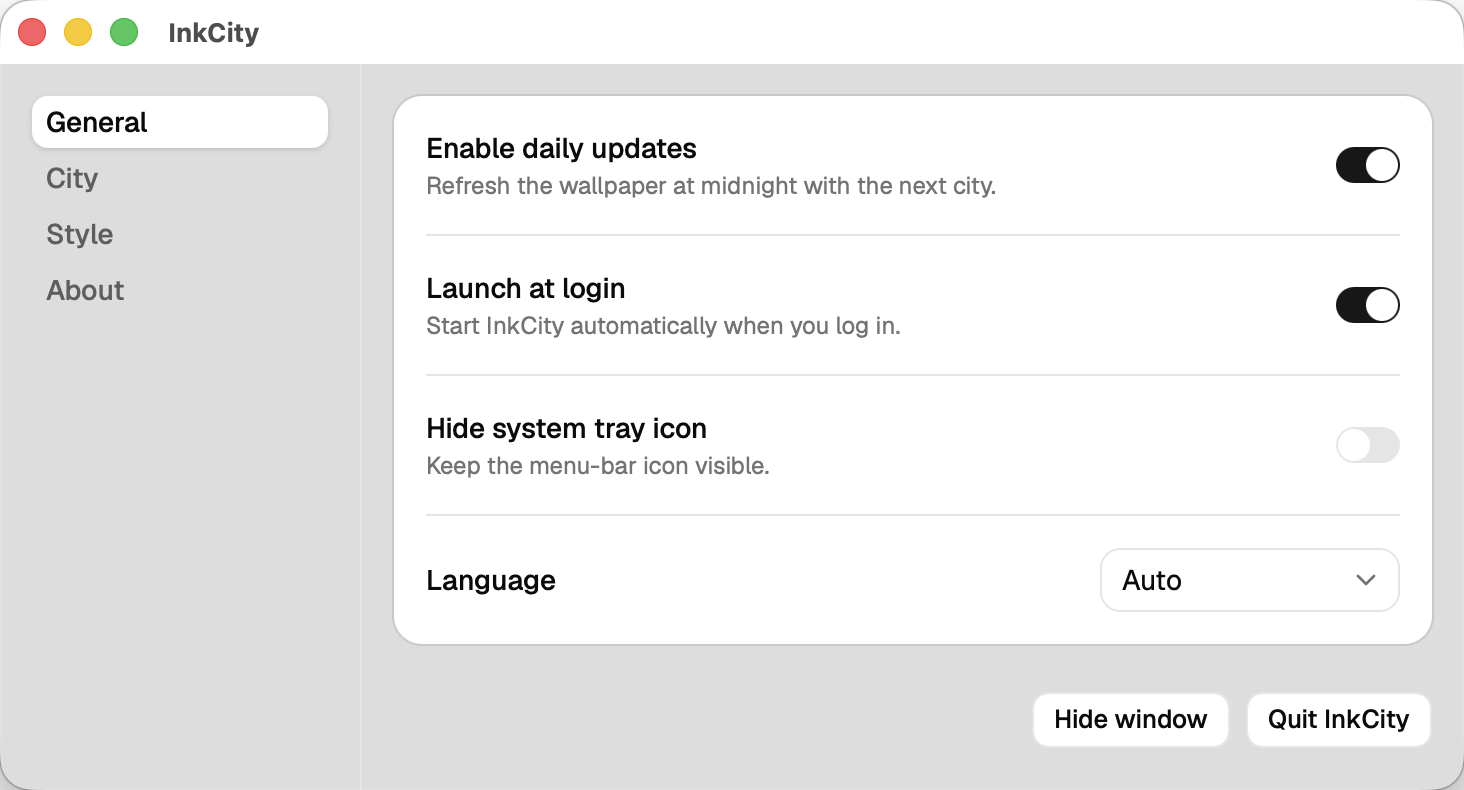
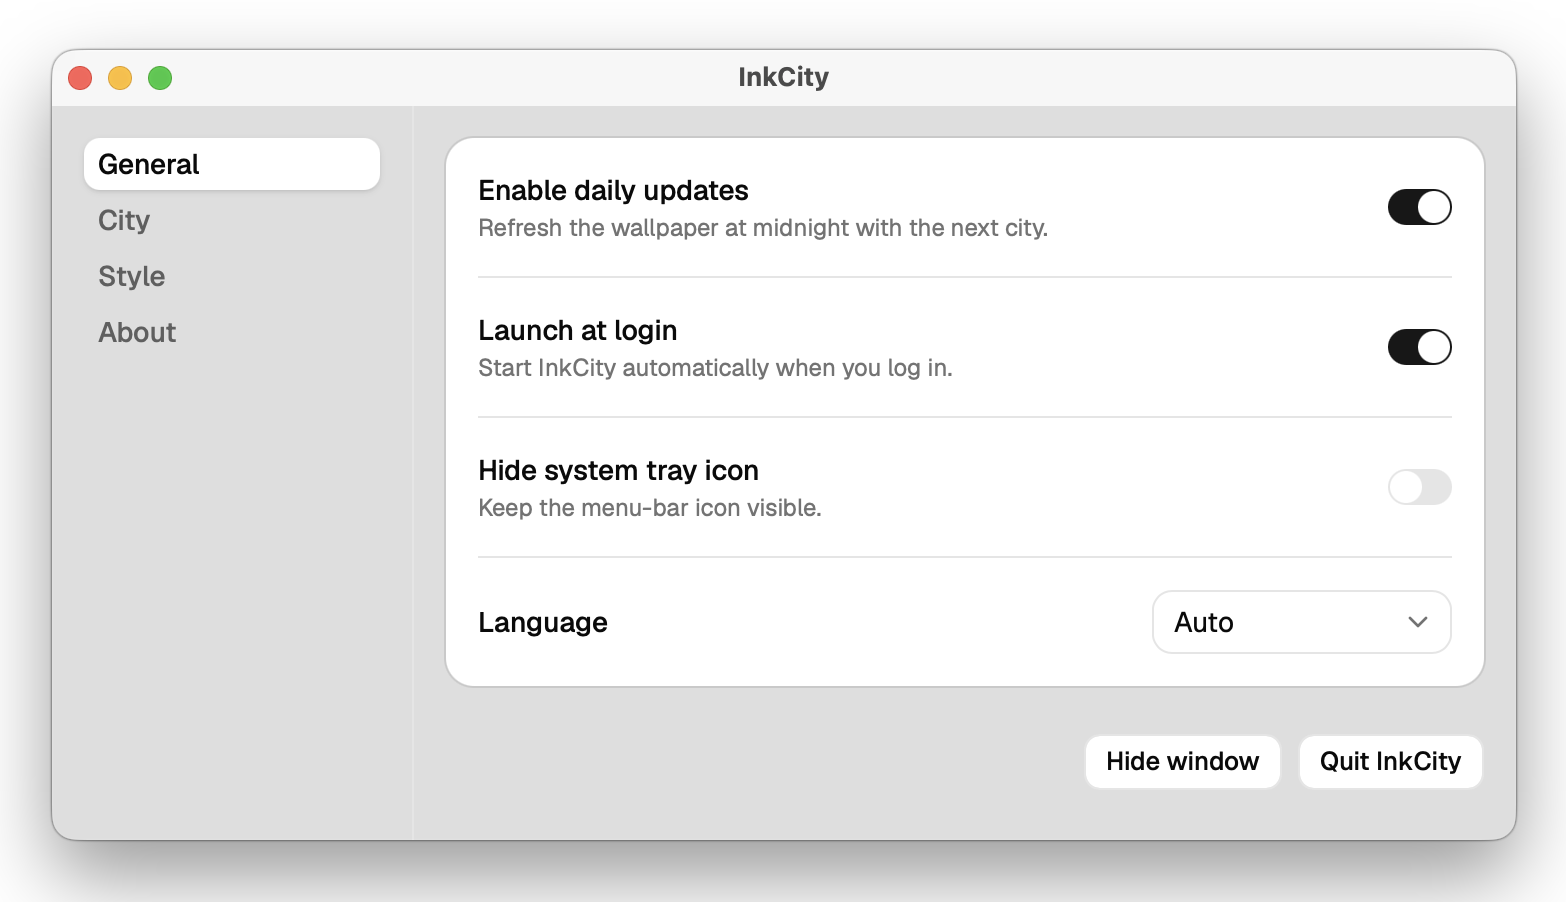
doc: update detail.md

diff --git a/README.md b/README.md
@@ -8,6 +8,12 @@
 
 InkCity is a small cross-platform (macOS + Windows) desktop app. Every day at midnight it picks a city, renders its road network as an ink-on-paper map sized to your screen, and sets it as your wallpaper.
 
+## Installation
+
+Open https://github.com/RalfZhang/ink-city/releases/latest/
+- For windows: download `InkCity_x.x.x_x64-setup.exe ` and run the installer.
+- macOS: download `InkCity_x.x.x_universal.dmg `, open it, and drag the app to your Applications folder.
+
 ## Features
 
 - **A new city every day** — a deterministic rotation through the world's ~1000 most populous cities.
@@ -17,72 +23,9 @@ InkCity is a small cross-platform (macOS + Windows) desktop app. Every day at mi
 ## Screenshots
 
 <div align="center">
-  <img src="docs/settings.png" width="420" alt="InkCity settings" />
   <img src="docs/wallpaper.png" alt="Example wallpaper" />
+  <img src="docs/settings.png" width="420" alt="InkCity settings" />
 </div>
-
-
-## How the daily city is chosen
-
-The city list is sorted by population, but you don't want to wake up to the same five megacities every week. So the day's index is
-
-```
-index = (days_since_2023-03-03 * 379) % N
-```
-
-`379` is prime, which makes the mapping a *permutation* of `0..N-1`: the sequence feels random and never repeats within a full `N`-day cycle, yet `cities.json` can stay neatly population-sorted and append-only. The exact same formula lives in the Rust client (`src-tauri/src/city.rs`) and the TypeScript core (`src/core/city.ts`), so the desktop app, the CI pre-cache, and the website all agree on today's city.
-
-## Architecture
-
-```
-src/core/          Portable, dependency-free logic (city pick, bbox math,
-                   Overpass fetch, canvas rendering) shared by the desktop
-                   renderer, the CI script, and a future website.
-src/                React + TypeScript settings UI (Vite).
-src/renderer/       Hidden WebView that draws the map to a canvas → PNG.
-src-tauri/          Rust backend: scheduler, pipeline, wallpaper setting,
-                   tray, config, CDN + Overpass fetch.
-scripts/            build-cities (GeoNames → cities.json) and
-                   precache-osm (CI OSM pre-cache).
-.github/workflows/  Daily OSM pre-cache published to the `data` branch.
-```
-
-**Data flow:** scheduler picks today's city → computes a screen-sized bbox → fetches road data (local cache → jsDelivr CDN → Overpass mirrors) → a hidden WebView renders it to a PNG → the PNG is set as the wallpaper (cover-fit). OSM and PNG artifacts are cached for 7 days so re-rendering after a theme change needs no network.
-
-**CDN pre-cache:** a daily GitHub Action fetches the upcoming cities' road data, slims it, and force-pushes it to the `data` branch, which [jsDelivr](https://www.jsdelivr.com/) serves as a CDN. This keeps the app fast and reachable on networks where Overpass is slow or blocked (notably mainland China).
-
-## Build from source
-
-**Prerequisites**
-
-- [Node.js](https://nodejs.org/) 20+
-- [Rust](https://www.rust-lang.org/tools/install) (stable)
-- Platform toolchain for Tauri — see [Tauri prerequisites](https://tauri.app/start/prerequisites/) (Xcode Command Line Tools on macOS; the WebView2 runtime + MSVC build tools on Windows)
-
-**Develop**
-
-```bash
-npm install
-npm run tauri dev
-```
-
-**Build a release bundle**
-
-```bash
-npm run tauri build
-```
-
-**Regenerate the city list** (downloads GeoNames `cities1000`, takes the top 1000 by population):
-
-```bash
-npm run build:cities
-```
-
-**Pre-cache OSM data** (what the GitHub Action runs; writes `data/osm/<id>.json`):
-
-```bash
-npm run precache -- data/osm 7
-```
 
 ## Data sources & licenses
 

diff --git a/docs/detail.md b/docs/detail.md
@@ -1,0 +1,61 @@
+## How the daily city is chosen
+
+The city list is sorted by population, but you don't want to wake up to the same five megacities every week. So the day's index is
+
+```
+index = (days_since_2023-03-03 * 379) % N
+```
+
+`379` is prime, which makes the mapping a *permutation* of `0..N-1`: the sequence feels random and never repeats within a full `N`-day cycle, yet `cities.json` can stay neatly population-sorted and append-only. The exact same formula lives in the Rust client (`src-tauri/src/city.rs`) and the TypeScript core (`src/core/city.ts`), so the desktop app, the CI pre-cache, and the website all agree on today's city.
+
+## Architecture
+
+```
+src/core/          Portable, dependency-free logic (city pick, bbox math,
+                   Overpass fetch, canvas rendering) shared by the desktop
+                   renderer, the CI script, and a future website.
+src/                React + TypeScript settings UI (Vite).
+src/renderer/       Hidden WebView that draws the map to a canvas → PNG.
+src-tauri/          Rust backend: scheduler, pipeline, wallpaper setting,
+                   tray, config, CDN + Overpass fetch.
+scripts/            build-cities (GeoNames → cities.json) and
+                   precache-osm (CI OSM pre-cache).
+.github/workflows/  Daily OSM pre-cache published to the `data` branch.
+```
+
+**Data flow:** scheduler picks today's city → computes a screen-sized bbox → fetches road data (local cache → jsDelivr CDN → Overpass mirrors) → a hidden WebView renders it to a PNG → the PNG is set as the wallpaper (cover-fit). OSM and PNG artifacts are cached for 7 days so re-rendering after a theme change needs no network.
+
+**CDN pre-cache:** a daily GitHub Action fetches the upcoming cities' road data, slims it, and force-pushes it to the `data` branch, which [jsDelivr](https://www.jsdelivr.com/) serves as a CDN. This keeps the app fast and reachable on networks where Overpass is slow or blocked (notably mainland China).
+
+## Build from source
+
+**Prerequisites**
+
+- [Node.js](https://nodejs.org/) 20+
+- [Rust](https://www.rust-lang.org/tools/install) (stable)
+- Platform toolchain for Tauri — see [Tauri prerequisites](https://tauri.app/start/prerequisites/) (Xcode Command Line Tools on macOS; the WebView2 runtime + MSVC build tools on Windows)
+
+**Develop**
+
+```bash
+npm install
+npm run tauri dev
+```
+
+**Build a release bundle**
+
+```bash
+npm run tauri build
+```
+
+**Regenerate the city list** (downloads GeoNames `cities1000`, takes the top 1000 by population):
+
+```bash
+npm run build:cities
+```
+
+**Pre-cache OSM data** (what the GitHub Action runs; writes `data/osm/<id>.json`):
+
+```bash
+npm run precache -- data/osm 7
+```
